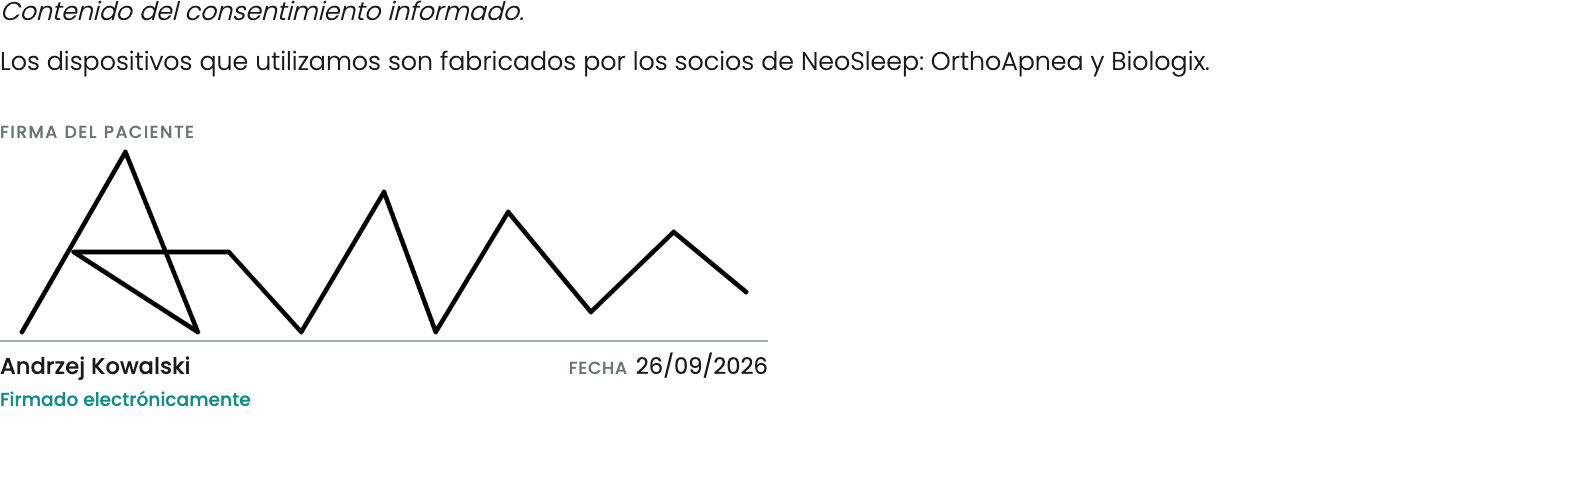
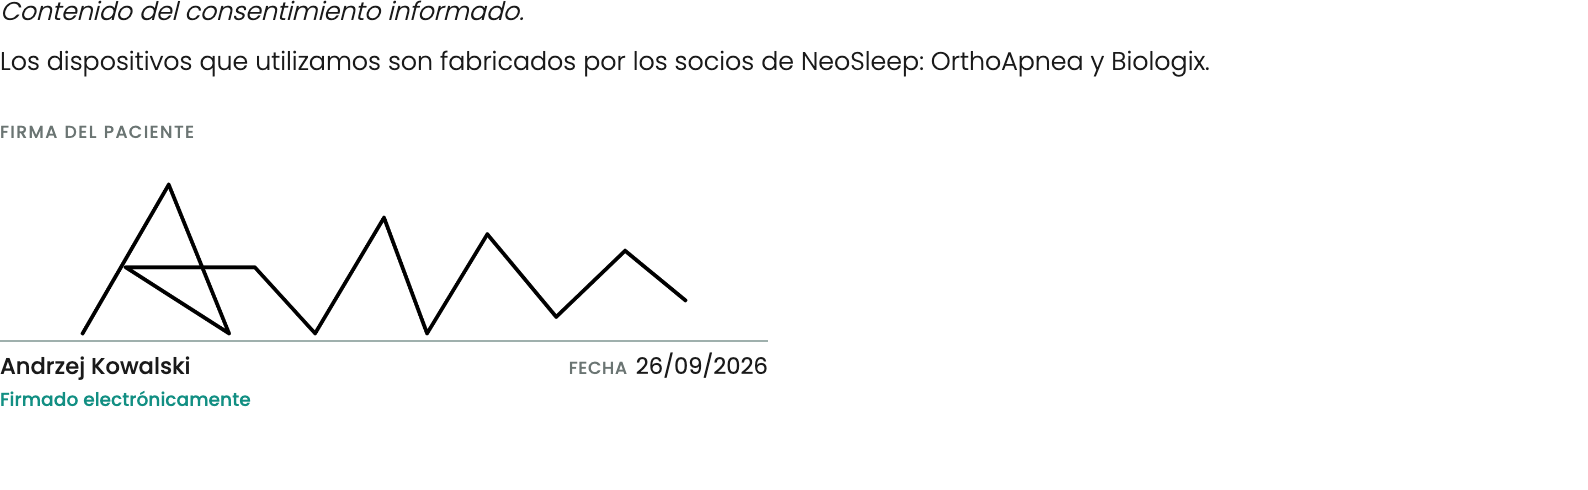
NEO-100 cap PDF signatures at 80% of the line width

Changed region(s): [[0.0309, 0.3061, 0.4628, 0.6735], [0.0, 0.5816, 0.0617, 0.6735]]

diff --git a/packages/documents/assets/docFields.css b/packages/documents/assets/docFields.css
@@ -133,7 +133,8 @@ table.checklist:has(+ .doc-notes) { margin-bottom: 0; }
   border-bottom: 1px solid #9fb0ad;
 }
 /* Each signature sits centred over its line (Łukasz, NEO-51 review 2026-09-25). */
-.sig-area img { display: block; max-height: 100%; max-width: 100%; object-fit: contain; object-position: center bottom; }
+/* 80% width: a full-width signature ran into the line's ends (Łukasz, NEO-100). max-width also caps the renderer's inline width:100%. */
+.sig-area img { display: block; max-height: 100%; max-width: 80%; object-fit: contain; object-position: center bottom; }
 .sig-e-note { order: 3; display: none; margin-top: 2px; font-size: 7pt; font-weight: 500; color: var(--primary); }
 .sig-panel:has(.sig-area img) .sig-e-note { display: block; }
 .sig-stamp {
